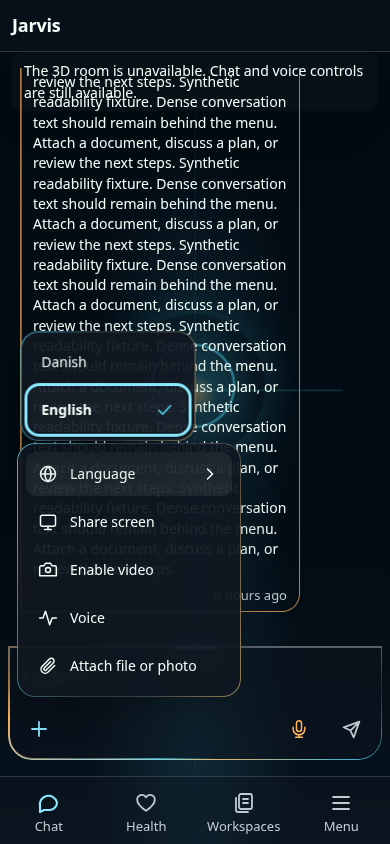
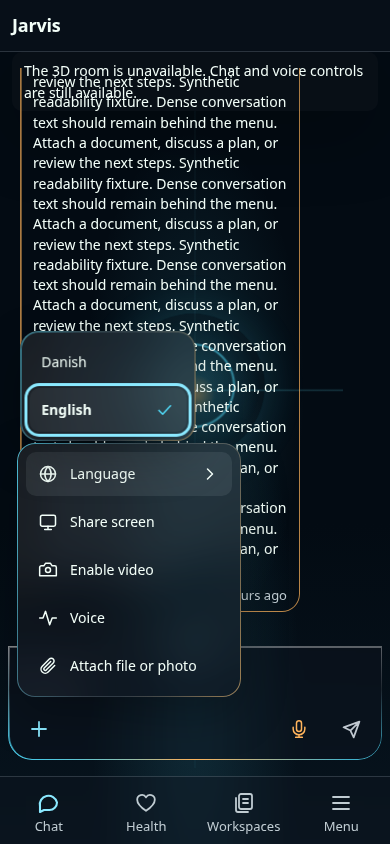
fix-main: blur composer popups outside the backdrop root

Changed region(s): [[0.2769, 0.3697, 0.6154, 0.6469], [0.0, 0.7701, 0.0308, 0.8934]]

diff --git a/apps/web/src/ConversationMoreMenu.tsx b/apps/web/src/ConversationMoreMenu.tsx
@@ -1,4 +1,4 @@
-import { Fragment, useCallback, useEffect, useId, useRef, useState, type KeyboardEvent, type ReactNode } from 'react';
+import { Fragment, useCallback, useEffect, useId, useLayoutEffect, useRef, useState, type KeyboardEvent, type ReactNode } from 'react';
 import type { VoiceLanguage } from './voice-client';
 import { voiceLanguages } from './voice-language';
 import { returnFocusAfterOutsidePress } from './overlay-focus';
@@ -61,6 +61,7 @@ export function ConversationMoreMenu({
   label = 'More options',
   icon = 'more',
   languageNote,
+  topLayer = false,
 }: {
   language?: VoiceLanguage;
   onLanguageChange?: (language: VoiceLanguage) => void;
@@ -72,7 +73,10 @@ export function ConversationMoreMenu({
   icon?: 'more' | 'attach' | 'plus';
   /** Explains how a language choice applies, shown inside the Language flyout. */
   languageNote?: string;
+  /** Escape the composer backdrop root while retaining native picker and focus ancestry. */
+  topLayer?: boolean;
 }) {
+  const renderInTopLayer = topLayer && typeof HTMLElement.prototype.showPopover === 'function';
   const id = useId();
   const menuId = `${id}-menu`;
   const languageMenuId = `${id}-language`;
@@ -87,6 +91,34 @@ export function ConversationMoreMenu({
   const [open, setOpen] = useState(false);
   const [languageOpen, setLanguageOpen] = useState(false);
   const pendingFocus = useRef<'first' | 'last' | 'checked' | null>(null);
+
+  useLayoutEffect(() => {
+    if (!open || !renderInTopLayer || !menu.current?.showPopover) return;
+    const sheet = menu.current;
+    const flyout = languageMenu.current;
+    // A nested backdrop-filter cannot sample chat outside the composer's backdrop root.
+    // Manual popovers escape that root without moving the attachment input in the DOM.
+    sheet.showPopover();
+    if (languageOpen) flyout?.showPopover();
+    let frame = 0;
+    const position = () => {
+      const anchor = trigger.current?.getBoundingClientRect();
+      if (!anchor) return;
+      sheet.style.left = `${align === 'end' ? anchor.right - sheet.offsetWidth : anchor.left}px`;
+      sheet.style.bottom = `${window.innerHeight - anchor.top + 10}px`;
+      if (languageOpen && flyout) {
+        const row = languageItem.current?.getBoundingClientRect();
+        if (row) {
+          const phone = window.innerWidth <= 700;
+          flyout.style.left = `${phone ? row.left - 6 : align === 'end' ? row.left - flyout.offsetWidth - 12 : row.right + 12}px`;
+          flyout.style.top = `${phone ? row.top - flyout.offsetHeight - 12 : row.top - 6}px`;
+        }
+      }
+      frame = requestAnimationFrame(position);
+    };
+    position();
+    return () => cancelAnimationFrame(frame);
+  }, [align, languageOpen, open, renderInTopLayer]);
 
   const close = useCallback((restoreFocus: boolean) => {
     setOpen(false);
@@ -252,7 +284,7 @@ export function ConversationMoreMenu({
         <MenuIcon name={icon} />
       </button>
       {open && (
-        <div ref={menuRef} id={menuId} className="more-menu-list luminous-glass" role="menu" aria-label={label}
+        <div ref={menuRef} id={menuId} className="more-menu-list luminous-glass" popover={renderInTopLayer ? 'manual' : undefined} role="menu" aria-label={label}
           onKeyDown={(event) => onMenuKeyDown(event, false)}>
           {renderActions(leadingActions)}
           {language !== undefined && onLanguageChange && <div role="none" className="more-menu-language">
@@ -272,7 +304,7 @@ export function ConversationMoreMenu({
               <MenuIcon name="chevron" />
             </button>
             {languageOpen && (
-              <div ref={languageMenuRef} id={languageMenuId} className="more-menu-flyout luminous-glass" role="menu"
+              <div ref={languageMenuRef} id={languageMenuId} className="more-menu-flyout luminous-glass" popover={renderInTopLayer ? 'manual' : undefined} role="menu"
                 aria-label="Language" aria-describedby={languageNote ? languageNoteId : undefined}
                 onKeyDown={(event) => onMenuKeyDown(event, true)}>
                 {voiceLanguages.map((option) => (

diff --git a/apps/web/src/ConversationMoreMenu.test.tsx b/apps/web/src/ConversationMoreMenu.test.tsx
@@ -28,6 +28,39 @@ function Harness({ onSelect = vi.fn(), disabled = false }: { onSelect?: () => vo
 }
 
 describe('ConversationMoreMenu', () => {
+  it('uses the top layer without moving the native picker or changing focus and toggle behavior', async () => {
+    const original = Object.getOwnPropertyDescriptor(HTMLElement.prototype, 'showPopover');
+    // jsdom has the closed-popover UA style but no native showPopover implementation.
+    const showPopover = vi.fn(function (this: HTMLElement) { this.style.display = 'grid'; });
+    Object.defineProperty(HTMLElement.prototype, 'showPopover', { configurable: true, value: showPopover });
+    const user = userEvent.setup();
+    const view = render(<ConversationMoreMenu topLayer icon="plus" language="en" onLanguageChange={vi.fn()}
+      actions={[{ id: 'attach', label: 'Attach', icon: <svg />, onSelect: vi.fn(), fileInput: <input type="file" aria-label="Files" /> }]} />);
+    try {
+      const trigger = screen.getByRole('button', { name: 'More options' });
+      await user.click(trigger);
+      const menu = screen.getByRole('menu', { name: 'More options' });
+      expect(menu.getAttribute('popover')).toBe('manual');
+      expect(showPopover).toHaveBeenCalled();
+      expect(trigger.parentElement?.contains(screen.getByLabelText('Files'))).toBe(true);
+      await user.keyboard('{ArrowRight}');
+      expect(screen.getByRole('menu', { name: 'Language' }).getAttribute('popover')).toBe('manual');
+      await user.click(trigger);
+      expect(screen.queryByRole('menu')).toBeNull();
+      expect(document.activeElement).toBe(trigger);
+      await user.click(trigger);
+      await user.click(screen.getByRole('menuitem', { name: 'Attach' }));
+      expect(screen.getByRole('menu', { name: 'More options' })).not.toBeNull();
+      fireEvent.change(screen.getByLabelText('Files'));
+      expect(screen.queryByRole('menu')).toBeNull();
+      expect(document.activeElement).toBe(trigger);
+    } finally {
+      view.unmount();
+      if (original) Object.defineProperty(HTMLElement.prototype, 'showPopover', original);
+      else Reflect.deleteProperty(HTMLElement.prototype, 'showPopover');
+    }
+  });
+
   it('alternates on repeated plus taps, including while the language flyout is open', async () => {
     const user = userEvent.setup();
     render(<ConversationMoreMenu icon="plus" language="en" onLanguageChange={vi.fn()} />);

diff --git a/apps/web/src/ConversationHistory.tsx b/apps/web/src/ConversationHistory.tsx
@@ -1278,7 +1278,7 @@ export function ConversationHistory({
         />
         {/* The visible invitation; the native placeholder stays for assistive technology but is drawn transparent. */}
         {!draft && !hasSent && <span className="composer-prompt" aria-hidden="true">Ask Jarvis</span>}
-        <ConversationMoreMenu className="composer-more" language={language} onLanguageChange={setLanguage}
+        <ConversationMoreMenu topLayer className="composer-more" language={language} onLanguageChange={setLanguage}
           actions={[...captureActions, ...primaryActions]} align="start" icon="plus" />
         <button className="composer-dictate" type="button" disabled={!dictationAvailable}
           aria-label={dictating ? 'Stop dictation' : 'Dictate'} aria-pressed={dictating}

diff --git a/apps/web/src/styles.css b/apps/web/src/styles.css
@@ -4477,8 +4477,15 @@ select.form-control {
 /* Composer Plus needs stronger separation from dense conversation text (#1319).
    Keep the rest of the shell on its existing glass material. */
 .app-shell .composer-more :is(.more-menu-list, .more-menu-flyout) {
-  --composer-menu-surface: rgb(from var(--surface) r g b / 94%);
-  background: var(--composer-menu-surface);
+  background: var(--chrome-glass-surface);
   backdrop-filter: blur(24px);
   -webkit-backdrop-filter: blur(24px);
+}
+
+/* Top-layer placement escapes only this popup's nested composer backdrop root. */
+.app-shell .composer-more :is(.more-menu-list, .more-menu-flyout)[popover] {
+  position: fixed;
+  inset: auto;
+  margin: 0;
+  overflow: visible;
 }

diff --git a/docs/ui/screenshots/1319/fixtures/browser.py b/docs/ui/screenshots/1319/fixtures/browser.py
@@ -40,13 +40,19 @@ with sync_playwright() as p:
             assert menu.is_visible()
             plus.click(); assert not menu.is_visible()
         plus.click(); page.wait_for_timeout(350)
+        page.set_viewport_size({'width':width,'height':height-80})
+        page.wait_for_timeout(100)
+        assert abs(menu.bounding_box()['y']+menu.bounding_box()['height']+10-plus.bounding_box()['y']) < 2
+        page.set_viewport_size({'width':width,'height':height})
+        page.wait_for_timeout(150)
         items=menu.get_by_role('menuitem')
         labels=items.all_text_contents()
         assert labels[0]=='Language' and labels[-2:]==['Voice','Attach file or photo'], labels
         positions=[item.bounding_box()['y'] for item in items.all()]
         assert positions==sorted(positions)
         assert menu.evaluate("e=>getComputedStyle(e).backdropFilter")=='blur(24px)'
-        assert menu.evaluate("e=>getComputedStyle(e).backgroundColor.includes('0.94')")
+        assert menu.evaluate("e=>e.matches(':popover-open')")
+        assert menu.evaluate("e=>getComputedStyle(e).backgroundColor===getComputedStyle(document.querySelector('.conversation-input')).backgroundColor")
         assert page.locator('.conversation-input').evaluate("e=>getComputedStyle(e).backdropFilter")=='blur(10px)'
         assert menu.evaluate("e=>[...e.querySelectorAll('button')].every(b=>{const r=b.getBoundingClientRect(); return b.contains(document.elementFromPoint(r.x+r.width/2,r.y+r.height/2))})")
         page.screenshot(path=str(out/f'{width}-{theme}-menu.png'))
@@ -55,7 +61,10 @@ with sync_playwright() as p:
         items.nth(items.count()-2).press('Home'); items.first.press('ArrowRight')
         flyout=page.get_by_role('menu',name='Language',exact=True)
         assert flyout.is_visible()
+        assert flyout.evaluate("e=>e.matches(':popover-open')")
         page.screenshot(path=str(out/f'{width}-{theme}-language.png'))
+        plus.click(); assert not menu.is_visible() and not flyout.is_visible()
+        plus.click(); items.first.press('ArrowRight')
         page.keyboard.press('Escape'); page.keyboard.press('Escape')
         assert plus.evaluate('e=>e===document.activeElement')
         plus.click()
@@ -67,7 +76,7 @@ with sync_playwright() as p:
         page.emulate_media(reduced_motion='reduce')
         plus.click(); assert menu.is_visible(); page.keyboard.press('Escape')
         assert not errors, errors
-        results.append({'width':width,'theme':theme,'order':labels,'blur':'24px','composerBlur':'10px','keyboard':True,'toggleCycles':3,'nativePickerAnchor':True,'reducedMotion':True,'pageErrors':errors})
+        results.append({'width':width,'theme':theme,'order':labels,'blur':'24px','composerBlur':'10px','nativeTopLayer':True,'chromeFillPreserved':True,'viewportAnchor':True,'keyboard':True,'toggleCycles':3,'nativePickerAnchor':True,'reducedMotion':True,'pageErrors':errors})
         page.close()
     browser.close()
 (out/'measurements.json').write_text(json.dumps(results,indent=2)+'\n')

diff --git a/docs/ui/screenshots/1319/README.md b/docs/ui/screenshots/1319/README.md
@@ -4,10 +4,19 @@ Actual App with synthetic dense conversation history, mocked sign-in/HTTP and
 browser speech recognition. Chromium uses the existing WebGL fallback. No private
 screenshots, real microphone, camera, voice provider or physical iPhone tested.
 
-The popup uses 24px blur and a 94% theme-colored fill. The higher fill matters:
-nested backdrop roots can leave underlying chat text sharp despite a computed
-blur. This is limited to the composer Plus list and its Language flyout.
-The composer/header/navigation and voice menus retain their existing material.
+The popup uses 24px blur with the **unchanged** chrome translucent fill (40% of
+the existing theme surface). The composer is a backdrop root: increasing a nested
+popup's blur did not blur the underlying chat. Both composer sheets now use manual
+native popovers, placing them in the browser top layer while preserving DOM ancestry,
+file-input anchoring and existing custom focus/close behavior. Only this popup opts
+in; other menus and glass surfaces are unchanged. Position follows the trigger every
+animation frame while open, including viewport changes. Browsers without native
+popover support retain the existing inline menu behavior; the sampling correction
+requires native popover support.
+
+Review rejected the first candidate's 94% fill: it reduced transmission without
+fixing actual blur. That fill is removed. Regenerated captures show the settled
+translucent popup with blurred underlying text, rather than a computed-blur claim.
 
 Top-to-bottom DOM, visual and keyboard order is Language, available capture
 options, Voice, Attach. Voice reuses the existing `ShellIcon` waveform; Dictate
@@ -29,7 +38,7 @@ rm apps/web/qaapp1301.tsx apps/web/qaapp1301.html
 
 Screenshots cover 390×844 touch emulation and 1440×1000 desktop in dark/light,
 with the menu open over dense text and the Language flyout open. Assertions cover
-actual rendered order, 24px popup/10px unchanged composer blur, fixed popup alpha,
+actual rendered order, 24px popup/10px unchanged composer blur, unchanged chrome fill and native top-layer placement,
 hit testing, repeated toggles, Home/End/arrows/Escape and restored Plus focus,
 native chooser bounds/cancellation, reduced motion and browser page errors.
 `measurements.json` records results. Emulation does not establish iPhone/Safari
@@ -62,3 +71,16 @@ Based on main `6ec8af1e` (includes meal recovery #1314). Prepare a draft PR;
 do not merge/deploy. The coordinator must integrate after Send #1316 and camera
 #1318, preserving removed camera-watch controls and all unrelated documentation.
 No edits to VoiceControls or capture-action definitions belong to this change.
+
+## Review correction validation
+
+The top-layer follow-up regenerates all screenshots and repeats viewport/theme,
+resize anchoring, repeated Plus close with an open Language flyout, native file
+chooser, focus, keyboard and reduced-motion checks. Earlier full-suite results
+above describe the first candidate; exact follow-up results are recorded below.
+
+- `npm test --workspace @jarvis/web -- --run src/ConversationHistory.test.tsx src/ConversationMoreMenu.test.tsx src/ConversationAttachments.test.tsx src/stylesheets.test.tsx`: **4 files / 196 tests passed**, including native-popover DOM/focus/toggle/picker retention with a jsdom adapter. Real top-layer rendering is covered by Chromium, not that adapter.
+- `npm run lint --workspace @jarvis/contracts --workspace @jarvis/web`: passed. After the final test-adapter/viewport predicate adjustment, `npm exec --workspace @jarvis/web -- eslint src/ConversationMoreMenu.tsx src/ConversationMoreMenu.test.tsx --max-warnings 0` also passed.
+- `npm run build --workspace @jarvis/contracts --workspace @jarvis/web`: passed, including TypeScript and production build (existing chunk-size advisory).
+- `python3 docs/ui/screenshots/1319/fixtures/browser.py`: passed all four combinations with native top-layer placement, unchanged fill and viewport anchoring assertions. The regenerated mobile and desktop captures were visually inspected; underlying text is blurred rather than merely dimmed.
+- The full web suite passed on the first candidate (2,394 tests); exact-head full aggregate qualification after this correction remains for hosted CI. Existing dependency-feed/PowerShell limits remain unchanged; no feed/lockfile workarounds were made.

diff --git a/PLAN.md b/PLAN.md
@@ -2,7 +2,7 @@
 
 ## Composer Plus readability (#1319; 26 October 2026)
 
-Implemented the scoped composer Plus readability, bottom-up action order and Voice waveform correction. Local verification is recorded in `docs/ui/screenshots/1319/README.md`. Full web tests (2,394), focused checks (195), contracts/web lint and synthetic Chromium visual QA passed. Draft publication and integration remain pending; integrate after meal recovery #1314, Send #1316 and unified camera #1318. Do not restore removed camera-watch controls.
+Implemented the scoped composer Plus readability, bottom-up action order and Voice waveform correction. Local verification is recorded in `docs/ui/screenshots/1319/README.md`. The first candidate passed 2,394 web tests. The transparency-preserving review correction passed 196 focused checks, contracts/web lint/build and synthetic Chromium visual QA; exact-head aggregate hosted qualification remains pending. Draft PR #1320 is open; a review correction preserves translucency using native top-layer popup blur. Final integration remains pending; integrate after meal recovery #1314, Send #1316 and unified camera #1318. Do not restore removed camera-watch controls.
 
 ## Desktop composer parity (#1309; 26 October 2026)
 

diff --git a/DESIGN.md b/DESIGN.md
@@ -2,7 +2,7 @@
 
 ## Composer Plus readability (#1319; 26 October 2026)
 
-Scope the stronger 24px blur and 94% theme-surface fill to `.composer-more` popups, including its Language flyout. Other glass surfaces retain their tokens. Render Language first in DOM order, then capture actions, Voice and Attach last nearest Plus; keyboard traversal follows the visible order. Reuse the existing ShellIcon waveform for Voice and retain the Dictate microphone. This locally supersedes the shared popup material from #1301.
+Scope the stronger 24px blur to `.composer-more` popups, including its Language flyout, and retain the existing translucent chrome fill. Use manual native popovers to render these sheets in the top layer, outside the composer backdrop root, while keeping their DOM ancestry and picker input intact. Other glass surfaces retain their tokens. Render Language first in DOM order, then capture actions, Voice and Attach last nearest Plus; keyboard traversal follows the visible order. Reuse the existing ShellIcon waveform for Voice and retain the Dictate microphone. This locally supersedes the shared popup material from #1301.
 
 ## Desktop composer parity (#1309; 26 October 2026)
 

diff --git a/docs/decisions.md b/docs/decisions.md
@@ -2,7 +2,7 @@
 
 ## Composer Plus readability (#1319; 26 October 2026)
 
-Follow the clarified bottom-up order: Attach nearest Plus, Voice above it, remaining actions, Language at the top. Keep DOM and visual ordering aligned rather than reversing CSS flow. Reuse the app waveform icon for Voice, with the microphone reserved for Dictate. Strengthen only composer menu glass; retain picker anchoring and shared menu behavior.
+Follow the clarified bottom-up order: Attach nearest Plus, Voice above it, remaining actions, Language at the top. Keep DOM and visual ordering aligned rather than reversing CSS flow. Reuse the app waveform icon for Voice, with the microphone reserved for Dictate. Strengthen only composer menu blur, retaining the existing translucent fill. Manual native popovers let that blur sample the underlying chat instead of stopping at the composer backdrop root; preserve DOM ancestry, picker anchoring and shared menu behavior.
 
 ## Desktop composer parity (#1309; 26 October 2026)
 
